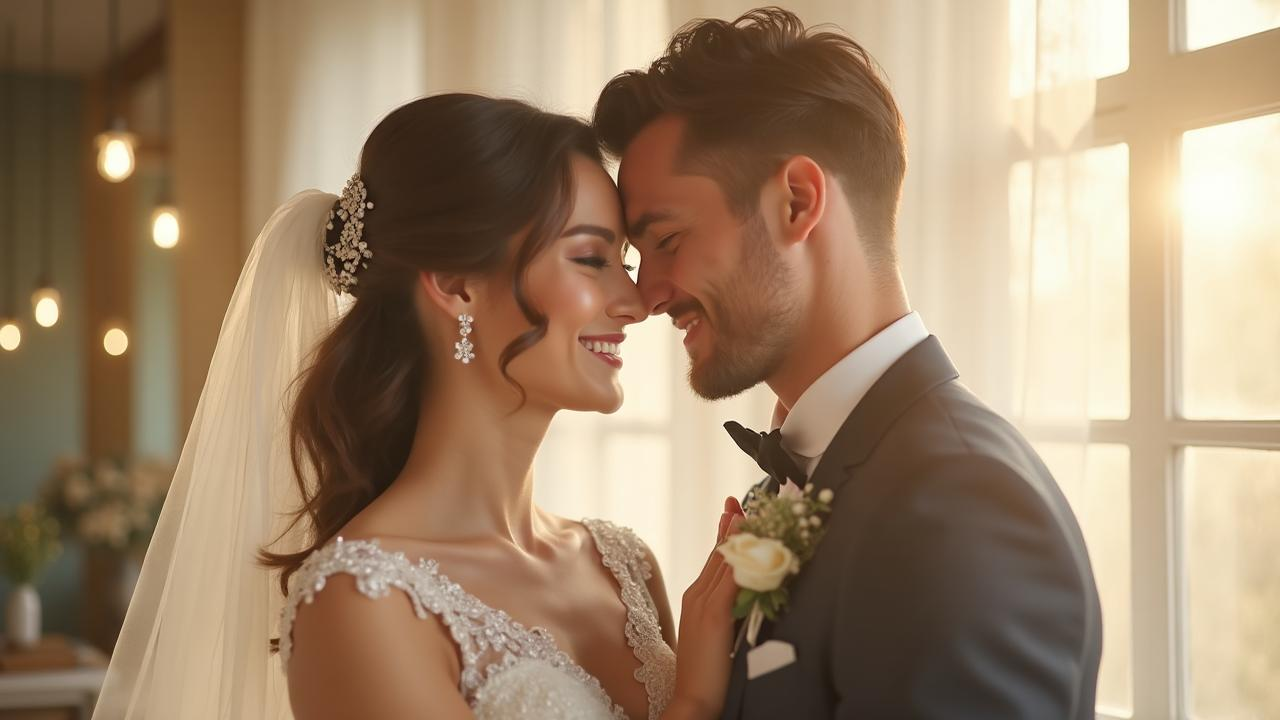
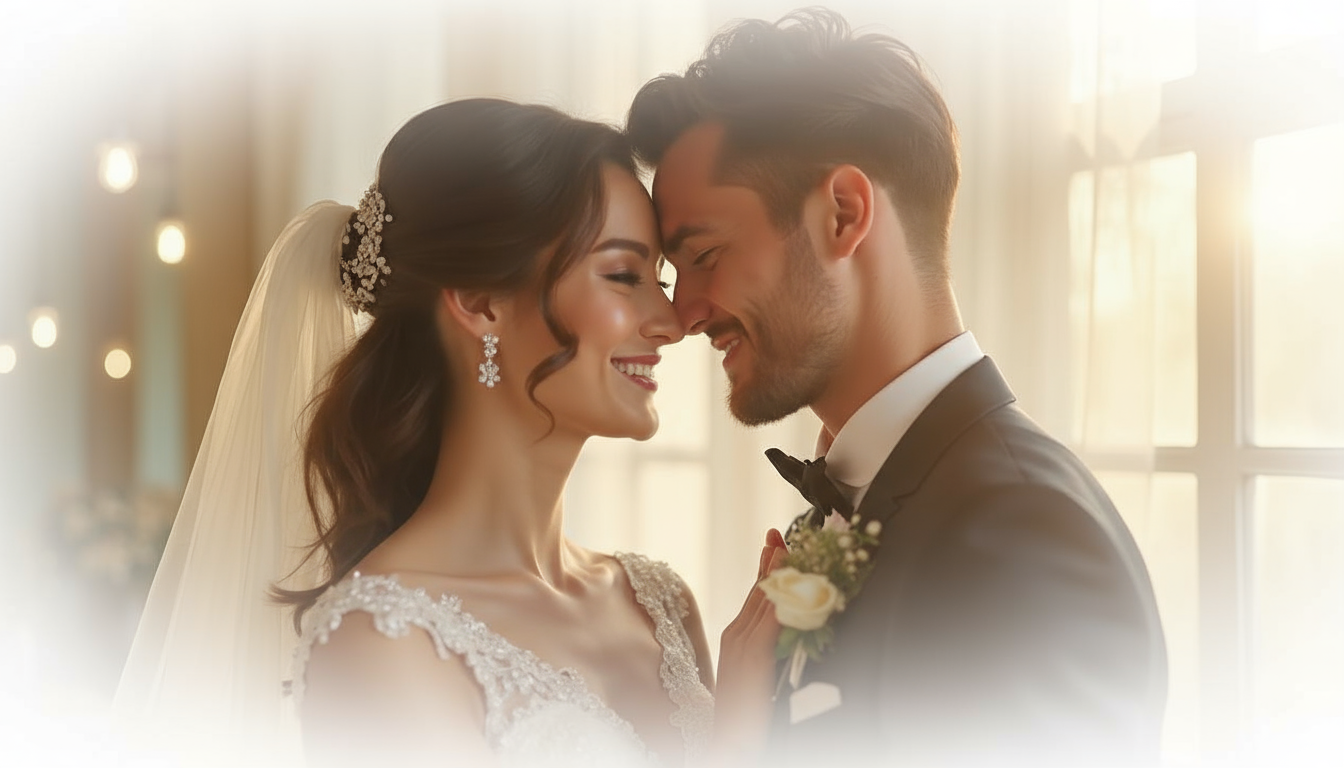
Add image with transparent borders

diff --git a/src/pages/Index.tsx b/src/pages/Index.tsx
@@ -62,11 +62,11 @@ const Index = () => {
         </div>
         
         {/* Couple Photo */}
-        <div className="max-w-3xl mx-auto">
+        <div className="w-full md:max-w-4xl mx-auto md:px-4">
           <img 
             src={couplePhoto} 
             alt="Foto do casal de noivos" 
-            className="w-full h-auto rounded-2xl shadow-2xl border-4 border-primary/20"
+            className="w-full h-auto md:rounded-3xl"
           />
         </div>
 
